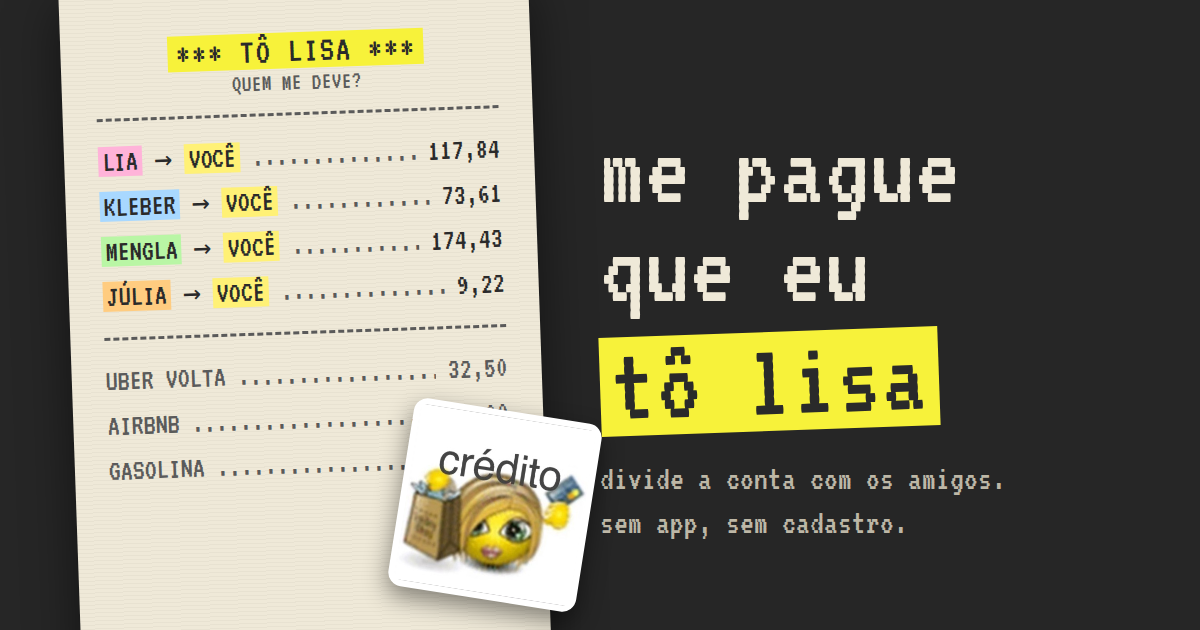
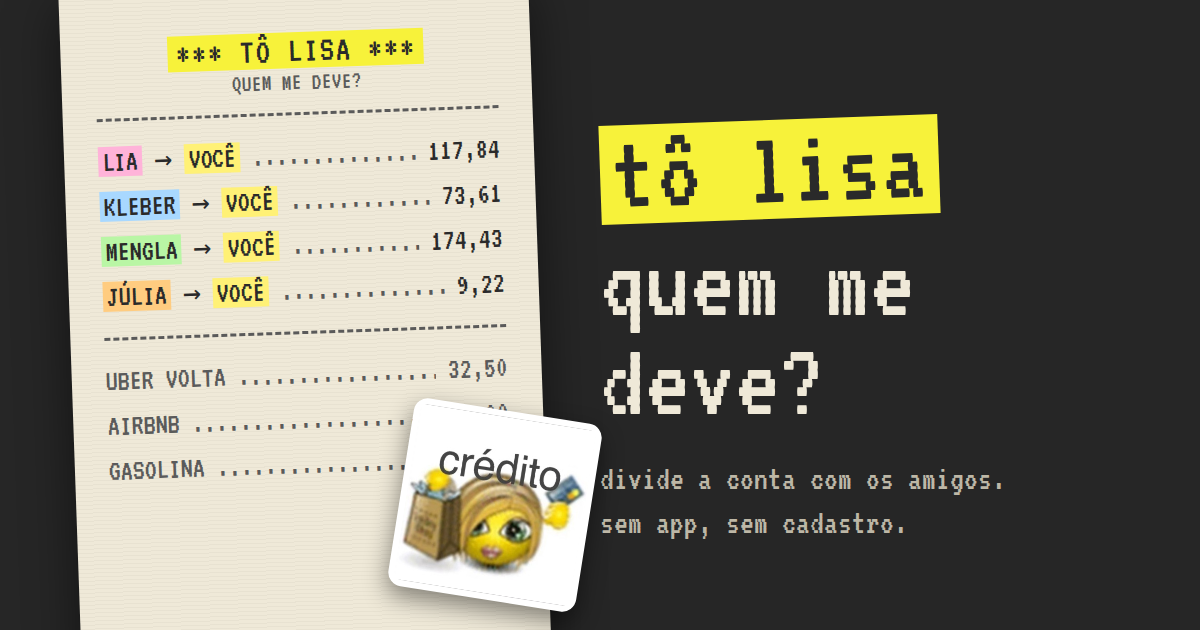
Seção 'Minha conta' no topo (paguei, minha parte, resultado); nome 'Tô Lisa · quem me deve?' em tudo
Claude-Session: https://claude.ai/code/session_01H4eTjd99awd9v2hmnSNs4M

Changed region(s): [[0.4933, 0.3921, 0.8017, 0.6937], [0.4933, 0.181, 0.8017, 0.3619]]

diff --git a/index.html b/index.html
@@ -11,13 +11,13 @@
 <meta name="theme-color" content="#1cc29f">
 <meta property="og:type" content="website">
 <meta property="og:site_name" content="Tô Lisa">
-<meta property="og:title" content="Me pague que eu tô lisa">
+<meta property="og:title" content="Tô Lisa · quem me deve?">
 <meta property="og:description" content="Tô Lisa · quem me deve? Divide a conta com os amigos, sem app, sem cadastro.">
 <meta property="og:url" content="https://fernandollisboa.github.io/splitwise-lite/">
 <meta property="og:image" content="https://fernandollisboa.github.io/splitwise-lite/og.png">
 <meta property="og:image:width" content="1200">
 <meta property="og:image:height" content="630">
-<meta property="og:image:alt" content="Nota de bar com o texto: me pague que eu tô lisa">
+<meta property="og:image:alt" content="Nota de bar com o texto: tô lisa, quem me deve?">
 <meta name="twitter:card" content="summary_large_image">
 <style>
   @font-face{font-family:'VT323';src:url(fonts/vt323.woff2) format('woff2')}
@@ -77,6 +77,7 @@
   #overlay .paper{max-width:380px;width:100%;padding:24px 20px}
   #sheet .paper{max-width:760px;width:100%;border-radius:0;padding:20px 18px 32px;max-height:90vh;overflow:auto}
   code.box{display:block;padding:8px;border:1px dashed var(--rule);word-break:break-all;font-size:16px;user-select:all}
+  #mineRows .row.pos .v{color:var(--green)} #mineRows .row.neg .v{color:var(--red)} #mineRows .row:last-child{border-top:2px dashed var(--rule);margin-top:4px;padding-top:4px}
   .row.mine{background:rgba(0,0,0,.055);margin:0 -8px;padding:0 8px;border-radius:3px}
   .pixi svg{vertical-align:-2px}
   .item .by{display:none}
@@ -100,8 +101,14 @@
   <h1>Tô lisa</h1>
   <div class="c muted" style="margin:-2px 0 6px;text-transform:none">quem me deve?</div>
   <div class="c">Evento: <a class="link" id="roomLabel">—</a><br><span id="whoLine"></span></div>
-  <div class="c muted" id="meLine" style="text-transform:none;font-size:16px;margin-top:4px"></div>
+
   <div class="hr"></div>
+
+  <div id="mine" class="hidden">
+    <h2>*** Minha conta ***</h2>
+    <div id="mineRows"></div>
+    <div class="hr"></div>
+  </div>
 
   <h2>*** Acerto ***</h2>
   <div class="c muted" id="pixLine" style="text-transform:none;font-size:15px;margin:-4px 0 10px"></div>
@@ -291,8 +298,10 @@
     $('#whoBtn').onclick = showWho;
     const hasMe = me && state.people.some(p => p.id === me);
     if (hasMe) { let paid = 0, part = 0; for (const e of state.expenses) { if (e.kind === 'payment') continue; const c = Math.round(e.amount*100); if (e.payer === me) paid += c; const ids = e.among.filter(id => state.people.some(p => p.id === id)); if (ids.includes(me)) part += shareOf(e, ids)[me] || 0; }
-      const bal = balances()[me] || 0; $('#meLine').innerHTML = `Você pagou ${money(paid/100)} · sua parte foi ${money(part/100)}<br>${bal > 0 ? 'recebe ' + money(bal/100) : bal < 0 ? 'deve ' + money(-bal/100) : 'quites'}`; }
-    else $('#meLine').textContent = '';
+      const bal = balances()[me] || 0; const ln = (l, v, cls='') => `<div class="row ${cls}"><span class="l">${l}</span><span class="d"></span><span class="v">${v}</span></div>`;
+      $('#mine').classList.remove('hidden');
+      $('#mineRows').innerHTML = ln('+ paguei', fmt(paid/100)) + ln('− minha parte', fmt(part/100)) + ln(bal > 0 ? '= me devem' : bal < 0 ? '= devo' : '= quites', fmt(Math.abs(bal)/100), bal > 0 ? 'pos' : bal < 0 ? 'neg' : ''); }
+    else $('#mine').classList.add('hidden');
     $('#pixLine').innerHTML = hasMe ? (pixKeys[me] ? `<span class="pixi">${PIX_SVG}</span> minha chave pix ✔ · <a class="link" id="pixBtn">alterar</a>` : `<a class="link" id="pixBtn"><span class="pixi">${PIX_SVG}</span> cadastrar minha chave pix</a>`) : '';
     if ($('#pixBtn')) $('#pixBtn').onclick = savePix;
       $('#peopleLine').innerHTML = state.people.map(p => nm(p.id)).join(', ') || 'ninguém';
@@ -482,7 +491,7 @@
     const up = t => String(t).toUpperCase();
     const fit = (t, n) => t.length > n ? t.slice(0, n - 1) + '…' : t;
     const leader = (l, v) => { l = fit(l, COLS - v.length - 2); return `${l} ${'.'.repeat(Math.max(1, COLS - l.length - v.length - 2))} ${v}`; };
-    const L = ['*me pague que eu tô lisa* 🧾', '```', '*** TÔ LISA ***', up(roomName || 'acerto'), ''];
+    const L = ['*tô lisa · quem me deve?* 🧾', '```', '*** TÔ LISA ***', up(roomName || 'acerto'), ''];
     if (!st.length) L.push('TUDO QUITADO'); else for (const t of st) L.push(leader(`${up(nameOf(t.from))} → ${up(nameOf(t.to))}`, fmt(t.cents/100)));
     L.push('```', shareUrl());
     return L.join('\n');
